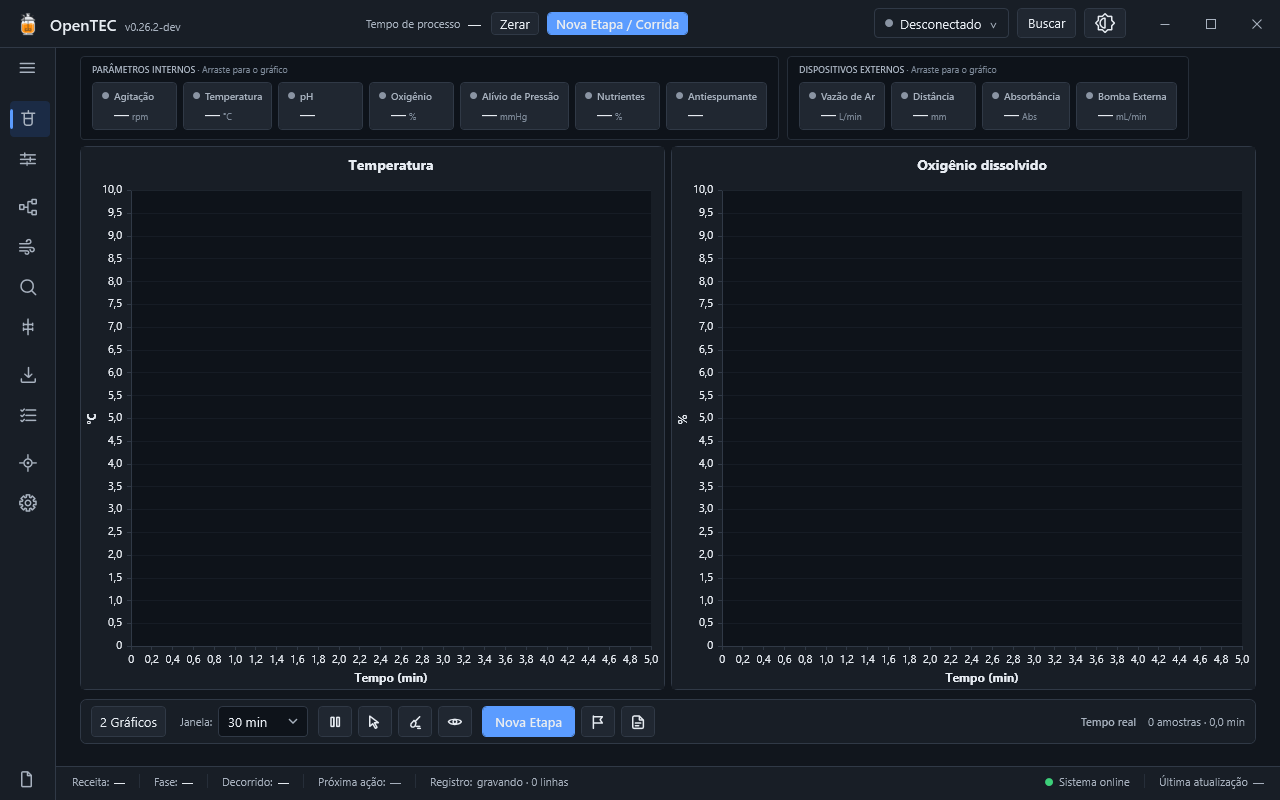
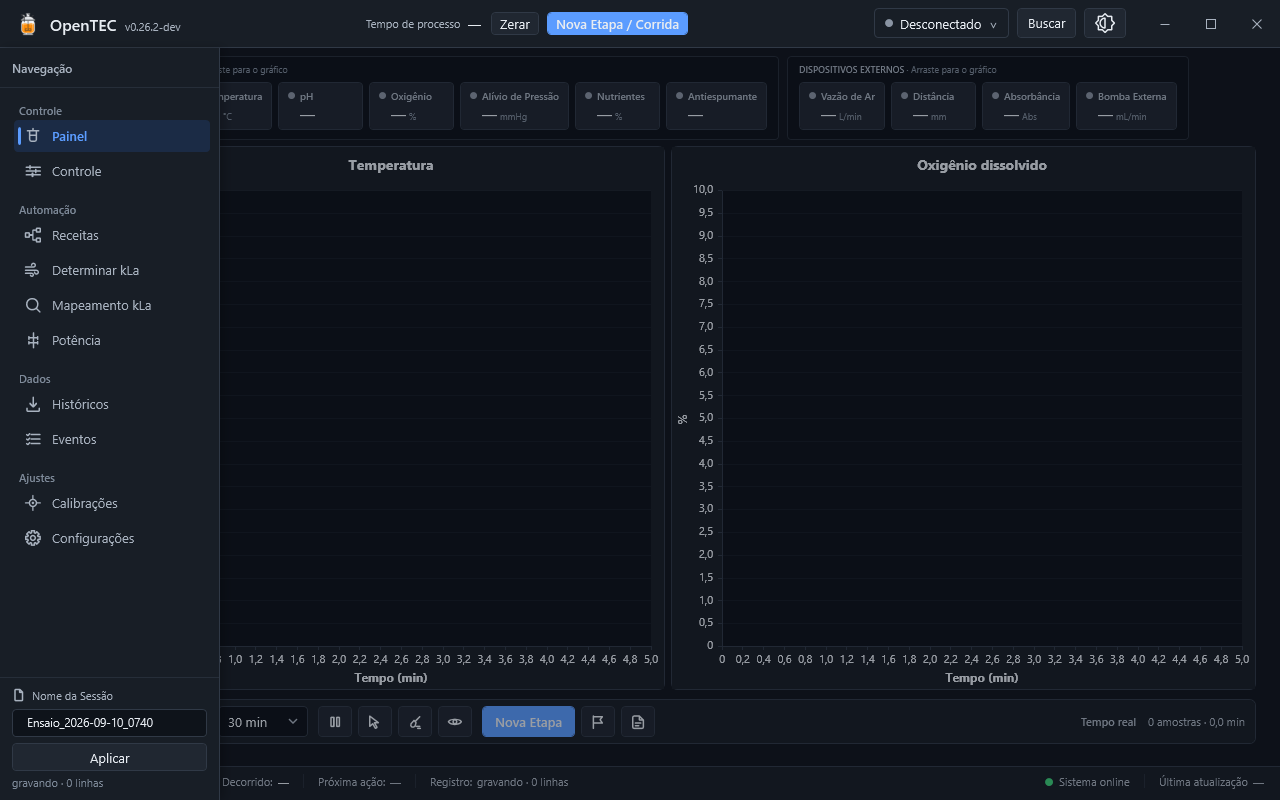
fix(ui): sobrepor gaveta de navegacao a partir de x=0 e ajustar margem de janela maximizada
- No modo compacto (<1440 DIP), a gaveta de navegacao (NavDrawer) e a mascara agora expandem a partir de x=0 cobrindo o NavigationRail compacto, evitando duplicacao de icones.
- No estado maximizado, ShellRoot aplica margem de 8 DIPs compensando o overscan nativo do Windows e mantendo o botao Fechar totalmente visivel.
- Atualiza build_installer.ps1 com Inno Setup 7 no drive D:.
- Adiciona testes de regressao em ShellChromeTests.cs.

diff --git a/Windows_app/src/OpenTECHub/MainWindow.xaml b/Windows_app/src/OpenTECHub/MainWindow.xaml
@@ -1,4 +1,4 @@
-<Window x:Class="OpenTECHub.MainWindow"
+<Window x:Class="OpenTECHub.MainWindow"
         xmlns="http://schemas.microsoft.com/winfx/2006/xaml/presentation"
         xmlns:x="http://schemas.microsoft.com/winfx/2006/xaml"
         xmlns:conv="clr-namespace:OpenTECHub.Converters"
@@ -69,6 +69,22 @@
     </Window.Resources>
 
     <DockPanel x:Name="ShellRoot">
+        <DockPanel.Style>
+            <!-- When maximized, Windows User32 places a WS_THICKFRAME window 8 DIPs outside the
+                 monitor work area on every edge so native resize borders hang off-screen.
+                 With WindowChrome, the client area covers the entire window, so an 8 DIP margin
+                 when maximized keeps the shell content (specifically the top-right caption close
+                 button) inside the visible monitor bounds without clipping. -->
+            <Style TargetType="DockPanel">
+                <Setter Property="Margin" Value="0" />
+                <Style.Triggers>
+                    <DataTrigger Binding="{Binding WindowState, RelativeSource={RelativeSource AncestorType=Window}}"
+                                 Value="Maximized">
+                        <Setter Property="Margin" Value="8" />
+                    </DataTrigger>
+                </Style.Triggers>
+            </Style>
+        </DockPanel.Style>
 
         <!-- ══ Title bar: identity, run clock, connection chip, window controls ══
              This whole 48 px strip is the WindowChrome caption (drag region). Interactive
@@ -395,8 +411,12 @@
             </StackPanel>
         </Border>
 
-        <!-- ══ Navigation rail ══ -->
-        <Border x:Name="NavigationRail" DockPanel.Dock="Left"
+        <!-- ══ Workspace: navigation, status bar, pages, and compact overlay drawer ══ -->
+        <Grid>
+            <!-- Normal layout flow -->
+            <DockPanel>
+                <!-- ══ Navigation rail ══ -->
+                <Border x:Name="NavigationRail" DockPanel.Dock="Left"
                 Background="{DynamicResource SurfaceCardBrush}"
                 BorderBrush="{DynamicResource StrokeDefaultBrush}"
                 BorderThickness="0,0,1,0">
@@ -777,9 +797,8 @@
             </DockPanel>
         </Border>
 
-        <!-- ══ Content: one page at a time, chosen by the nav rail ══ -->
-        <Grid>
-        <Grid>
+                <!-- ══ Content: one page at a time, chosen by the nav rail ══ -->
+                <Grid>
 
             <!-- Painel -->
             <ctl:DeferredPageHost PageId="dashboard"
@@ -890,21 +909,20 @@
                     </DataTemplate>
                 </ctl:DeferredPageHost.PageTemplate>
             </ctl:DeferredPageHost>
-        </Grid>
+                </Grid>
+            </DockPanel>
 
-        <!-- ══ Overlay Drawer (compact mode) ══
-             Lives in the content Grid, not in the DockPanel flow, so opening it
-             overlays the page instead of pushing the layout sideways and
-             re-measuring every form the operator is typing into. -->
-        <Border Background="{DynamicResource OverlayScrimBrush}" Panel.ZIndex="99"
-                Visibility="{Binding IsNavDrawerOpen, Converter={StaticResource BoolToVis}}"
-                MouseDown="OnDrawerBackdropMouseDown" />
+            <!-- ══ Overlay Drawer (compact mode) ══
+                 Overlays from x=0 covering the 56 DIP compact rail so icons are never duplicated. -->
+            <Border Background="{DynamicResource OverlayScrimBrush}" Panel.ZIndex="99"
+                    Visibility="{Binding IsNavDrawerOpen, Converter={StaticResource BoolToVis}}"
+                    MouseDown="OnDrawerBackdropMouseDown" />
 
-        <Border HorizontalAlignment="Left" Width="220" Panel.ZIndex="100"
-                Background="{DynamicResource SurfaceCardBrush}"
-                BorderBrush="{DynamicResource StrokeDefaultBrush}"
-                BorderThickness="0,0,1,0"
-                Visibility="{Binding IsNavDrawerOpen, Converter={StaticResource BoolToVis}}">
+            <Border x:Name="NavDrawer" HorizontalAlignment="Left" Width="220" Panel.ZIndex="100"
+                    Background="{DynamicResource SurfaceCardBrush}"
+                    BorderBrush="{DynamicResource StrokeDefaultBrush}"
+                    BorderThickness="0,0,1,0"
+                    Visibility="{Binding IsNavDrawerOpen, Converter={StaticResource BoolToVis}}">
             <Border.Effect>
                 <DropShadowEffect BlurRadius="16" ShadowDepth="4" Direction="0" Opacity="0.25" />
             </Border.Effect>

diff --git a/Windows_app/tests/OpenTECHub.Tests/ShellChromeTests.cs b/Windows_app/tests/OpenTECHub.Tests/ShellChromeTests.cs
@@ -1,4 +1,6 @@
-using System.IO;
+using System.IO;
+using System.Windows;
+using Microsoft.Extensions.DependencyInjection;
 using Xunit;
 
 namespace OpenTECHub.Tests;
@@ -105,5 +107,126 @@ public sealed class ShellChromeTests
         Assert.Contains("OnMinimizeWindow", code, StringComparison.Ordinal);
         Assert.Contains("OnMaximizeRestoreWindow", code, StringComparison.Ordinal);
         Assert.Contains("OnCloseWindow", code, StringComparison.Ordinal);
+    }
+
+    [Fact]
+    public void ShellRoot_has_maximized_margin_trigger_in_xaml()
+    {
+        var xaml = ReadShell("MainWindow.xaml");
+
+        Assert.Contains("<DockPanel x:Name=\"ShellRoot\">", xaml, StringComparison.Ordinal);
+        Assert.Contains("Value=\"Maximized\"", xaml, StringComparison.Ordinal);
+        Assert.Contains("Property=\"Margin\" Value=\"8\"", xaml, StringComparison.Ordinal);
+    }
+
+    [Fact]
+    public void Maximized_window_insets_shell_root_and_keeps_close_button_on_screen()
+    {
+        Rendering.WpfRenderingHost.Run(() =>
+        {
+            var win = new MainWindow();
+            win.WindowState = WindowState.Normal;
+            win.Show();
+            win.UpdateLayout();
+
+            var shellRoot = (System.Windows.Controls.DockPanel)win.FindName("ShellRoot");
+            var topBorder = (System.Windows.Controls.Border)shellRoot.Children[0];
+            var headerDock = (System.Windows.Controls.DockPanel)topBorder.Child;
+            var captionStack = (System.Windows.Controls.StackPanel)headerDock.Children[0];
+            var closeBtn = (System.Windows.Controls.Button)captionStack.Children[2];
+
+            // Normal state: Margin must be 0 so windowed geometry is unpadded.
+            Assert.Equal(new Thickness(0), shellRoot.Margin);
+
+            // Maximize window
+            win.WindowState = WindowState.Maximized;
+            win.UpdateLayout();
+
+            // Maximized state: ShellRoot must have an 8 DIP margin compensating for
+            // Windows User32's thickframe overscan.
+            Assert.Equal(new Thickness(8), shellRoot.Margin);
+
+            var hwnd = new System.Windows.Interop.WindowInteropHelper(win).Handle;
+            var monitor = MonitorFromWindow(hwnd, 2 /* MONITOR_DEFAULTTONEAREST */);
+            var info = new MONITORINFO { cbSize = System.Runtime.InteropServices.Marshal.SizeOf<MONITORINFO>() };
+            GetMonitorInfo(monitor, ref info);
+
+            var closeScreenPt = closeBtn.PointToScreen(new Point(0, 0));
+            var closeRightEdge = closeScreenPt.X + closeBtn.ActualWidth;
+
+            // Close button right edge must be on-screen (within monitor work area).
+            Assert.True(closeRightEdge <= info.rcWork.Right + 0.5,
+                $"Close button right edge ({closeRightEdge}) exceeded work area right ({info.rcWork.Right})");
+            Assert.True(closeScreenPt.Y >= info.rcWork.Top - 0.5,
+                $"Close button top ({closeScreenPt.Y}) was clipped above work area top ({info.rcWork.Top})");
+
+            // Restore to normal: Margin must revert to 0.
+            win.WindowState = WindowState.Normal;
+            win.UpdateLayout();
+            Assert.Equal(new Thickness(0), shellRoot.Margin);
+
+            win.Close();
+        });
+    }
+
+    [Fact]
+    public void NavDrawer_in_compact_mode_overlays_from_left_edge_covering_rail()
+    {
+        Rendering.WpfRenderingHost.Run(() =>
+        {
+            var settings = Rendering.WpfRenderingHost.Services.GetRequiredService<Services.Persistence.ISettingsService>();
+            var theme = Rendering.WpfRenderingHost.Services.GetRequiredService<Services.Theme.IThemeService>();
+            var shell = Rendering.WpfRenderingHost.Services.GetRequiredService<ViewModels.ShellViewModel>();
+
+            var win = new MainWindow(settings, theme) { DataContext = shell };
+            win.Width = 1280;
+            win.Height = 800;
+            win.Show();
+            win.UpdateLayout();
+
+            Assert.True(shell.IsNavigationCompact);
+
+            var navRail = (FrameworkElement)win.FindName("NavigationRail");
+            var navDrawer = (FrameworkElement)win.FindName("NavDrawer");
+
+            // Rail is 56 DIP wide and sits at Left = 0.
+            var railPt = navRail.TransformToAncestor(win).Transform(new Point(0, 0));
+            Assert.Equal(0, railPt.X);
+            Assert.Equal(56, navRail.ActualWidth);
+
+            // Initially drawer is closed.
+            Assert.Equal(Visibility.Collapsed, navDrawer.Visibility);
+
+            // Open drawer
+            shell.IsNavDrawerOpen = true;
+            win.UpdateLayout();
+
+            Assert.Equal(Visibility.Visible, navDrawer.Visibility);
+            var drawerPt = navDrawer.TransformToAncestor(win).Transform(new Point(0, 0));
+
+            // Crucial: Drawer must start at x=0 (covering the rail), NOT at x=56 (beside the rail).
+            Assert.Equal(0, drawerPt.X);
+            Assert.True(navDrawer.ActualWidth >= navRail.ActualWidth, "Drawer width must cover the rail width");
+
+            win.Close();
+        });
+    }
+
+    [System.Runtime.InteropServices.DllImport("user32.dll")]
+    private static extern IntPtr MonitorFromWindow(IntPtr hwnd, int flags);
+
+    [System.Runtime.InteropServices.DllImport("user32.dll")]
+    private static extern bool GetMonitorInfo(IntPtr hMonitor, ref MONITORINFO lpmi);
+
+    [System.Runtime.InteropServices.StructLayout(System.Runtime.InteropServices.LayoutKind.Sequential)]
+    private struct RECT { public int Left, Top, Right, Bottom; }
+
+    [System.Runtime.InteropServices.StructLayout(System.Runtime.InteropServices.LayoutKind.Sequential)]
+    private struct MONITORINFO
+    {
+        public int cbSize;
+        public RECT rcMonitor;
+        public RECT rcWork;
+        public int dwFlags;
     }
 }
